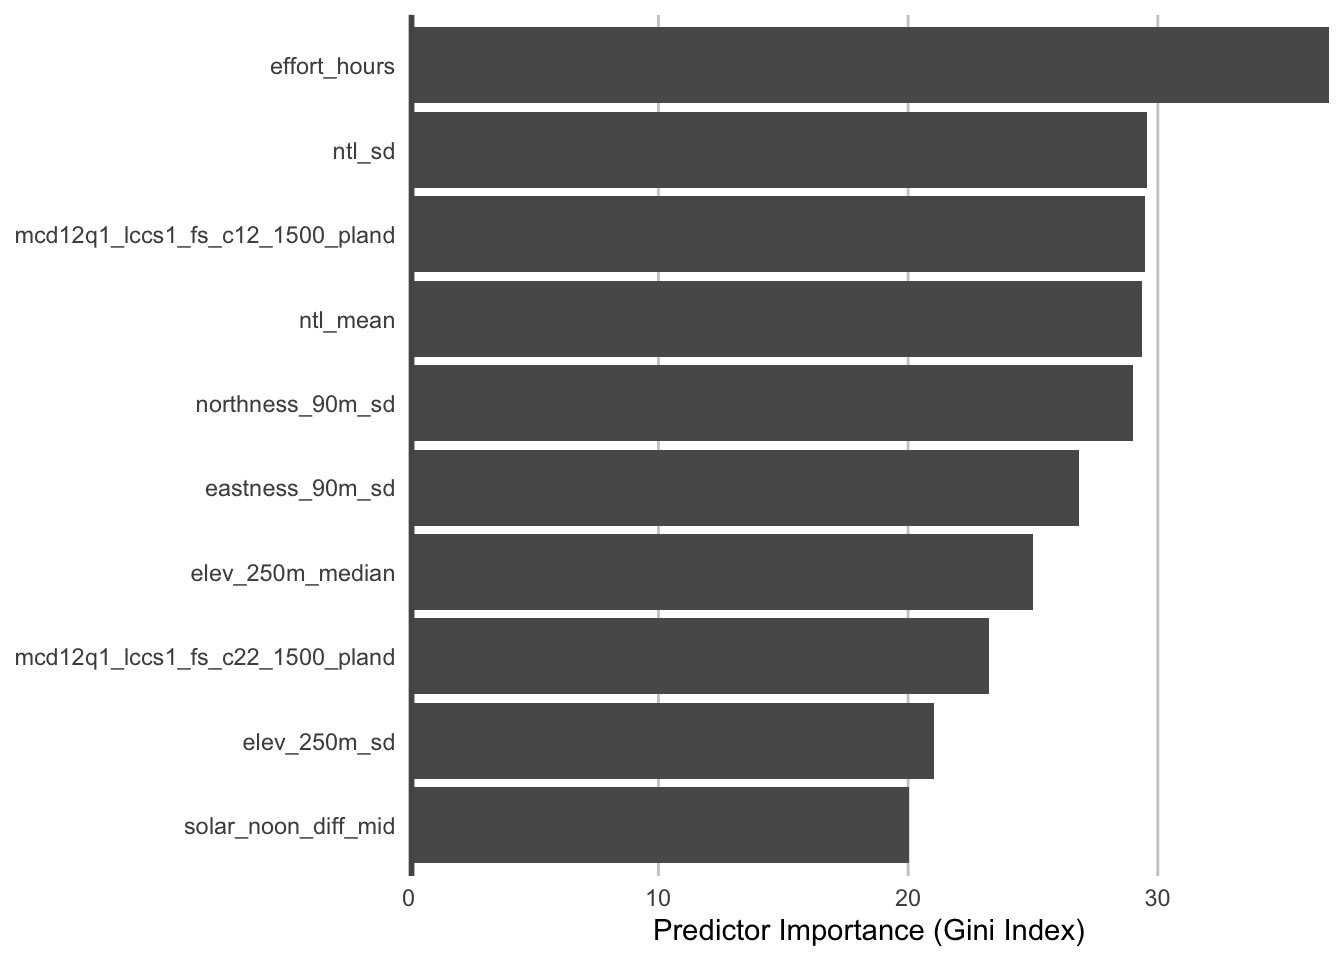
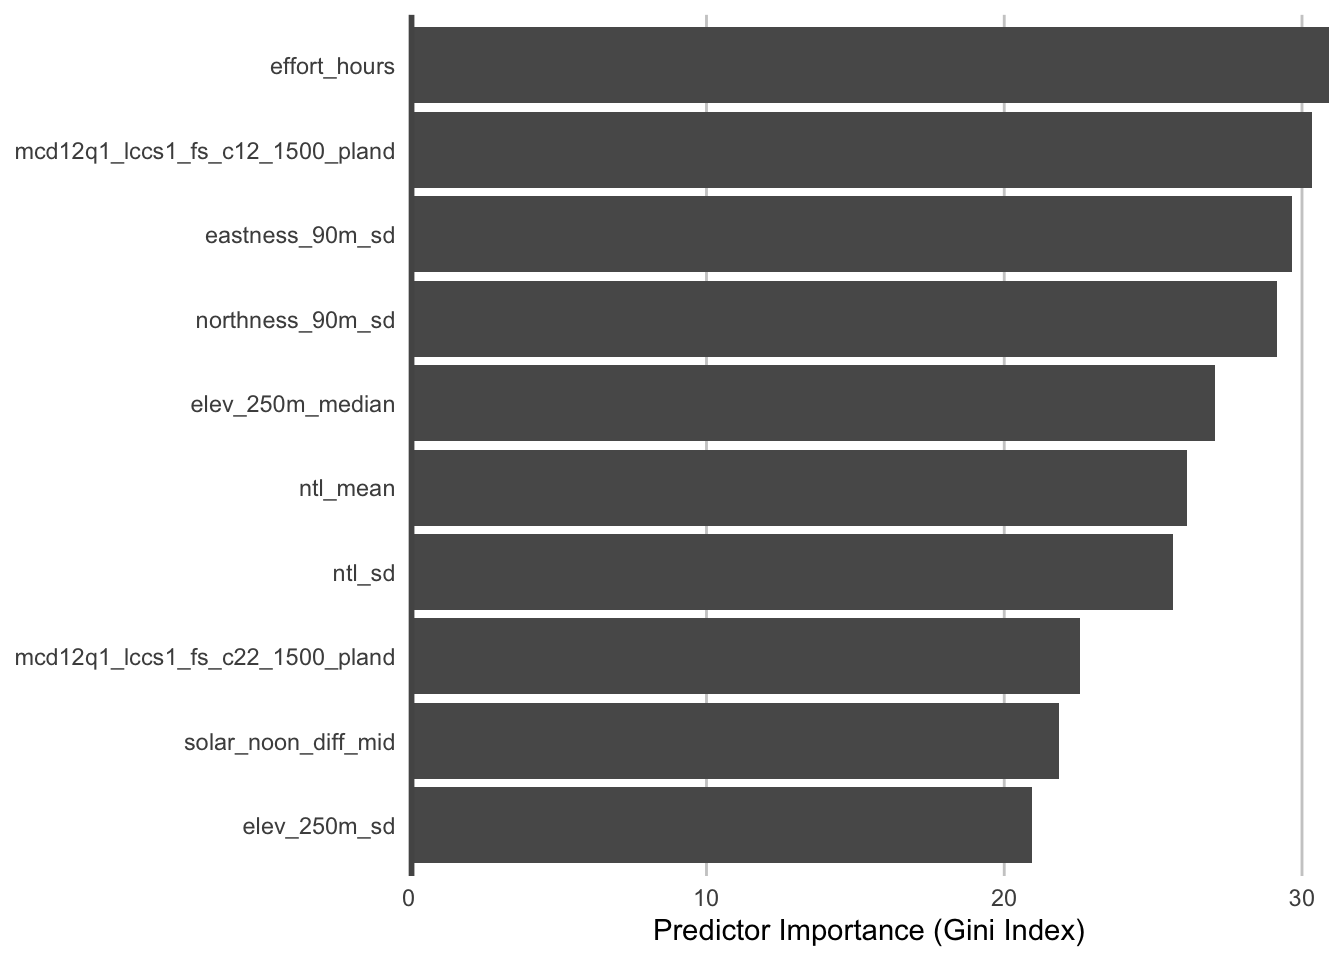
recompile

diff --git a/docs/abundance.html b/docs/abundance.html
@@ -276,7 +276,7 @@ code span.wa { color: #60a0b0; font-weight: bold; font-style: italic; } /* Warni
 <span id="cb1-31"><a href="#cb1-31" aria-hidden="true" tabindex="-1"></a>    <span class="at">obs_count =</span> <span class="fu">ifelse</span>(obs_detected <span class="sc">==</span> <span class="dv">1</span>, obs_count, <span class="dv">0</span>)</span>
 <span id="cb1-32"><a href="#cb1-32" aria-hidden="true" tabindex="-1"></a>  )</span></code><button title="Copy to Clipboard" class="code-copy-button"><i class="bi"></i></button></pre></div>
 </div>
-<p>Next let’s subset the data to only observations from January and February, summer months during which we expect detectability and habitat associations to be stationary. To reduce variation in detecatability, we’ll also subset the data to only those checklists less than 24 hours in duration and 10km in length, at speeds below 100km/h, and with 10 or fewer observers. Furthermore, we’ll only consider data from the past 15 years (2007-2021).</p>
+<p>Next let’s subset the data to only observations from January and February, summer months during which we expect detectability and habitat associations to be stationary. To reduce variation in detectability, we’ll also subset the data to only those checklists less than 6 hours in duration and 10km in length, at speeds below 100km/h, and with 10 or fewer observers. Furthermore, we’ll only consider data from the past 15 years (2007-2021).</p>
 <div class="cell" data-layout-align="center">
 <div class="sourceCode cell-code" id="cb2"><pre class="sourceCode r code-with-copy"><code class="sourceCode r"><span id="cb2-1"><a href="#cb2-1" aria-hidden="true" tabindex="-1"></a>checklists <span class="ot">&lt;-</span> checklists <span class="sc">%&gt;%</span> </span>
 <span id="cb2-2"><a href="#cb2-2" aria-hidden="true" tabindex="-1"></a>  <span class="fu">filter</span>(</span>
@@ -285,7 +285,7 @@ code span.wa { color: #60a0b0; font-weight: bold; font-style: italic; } /* Warni
 <span id="cb2-5"><a href="#cb2-5" aria-hidden="true" tabindex="-1"></a>    <span class="co"># jan-feb</span></span>
 <span id="cb2-6"><a href="#cb2-6" aria-hidden="true" tabindex="-1"></a>    day_of_year <span class="sc">&gt;=</span> <span class="dv">1</span>, day_of_year <span class="sc">&lt;=</span> <span class="dv">59</span>,</span>
 <span id="cb2-7"><a href="#cb2-7" aria-hidden="true" tabindex="-1"></a>    <span class="co"># effort filters</span></span>
-<span id="cb2-8"><a href="#cb2-8" aria-hidden="true" tabindex="-1"></a>    effort_hours <span class="sc">&lt;=</span> <span class="dv">24</span>,</span>
+<span id="cb2-8"><a href="#cb2-8" aria-hidden="true" tabindex="-1"></a>    effort_hours <span class="sc">&lt;=</span> <span class="dv">6</span>,</span>
 <span id="cb2-9"><a href="#cb2-9" aria-hidden="true" tabindex="-1"></a>    effort_distance_km <span class="sc">&lt;=</span> <span class="dv">10</span>,</span>
 <span id="cb2-10"><a href="#cb2-10" aria-hidden="true" tabindex="-1"></a>    effort_speed_kmph <span class="sc">&lt;=</span> <span class="dv">100</span>,</span>
 <span id="cb2-11"><a href="#cb2-11" aria-hidden="true" tabindex="-1"></a>    number_observers <span class="sc">&lt;=</span> <span class="dv">10</span>)</span></code><button title="Copy to Clipboard" class="code-copy-button"><i class="bi"></i></button></pre></div>
@@ -327,25 +327,25 @@ code span.wa { color: #60a0b0; font-weight: bold; font-style: italic; } /* Warni
 <div class="cell" data-layout-align="center">
 <div class="sourceCode cell-code" id="cb6"><pre class="sourceCode r code-with-copy"><code class="sourceCode r"><span id="cb6-1"><a href="#cb6-1" aria-hidden="true" tabindex="-1"></a><span class="co"># original data</span></span>
 <span id="cb6-2"><a href="#cb6-2" aria-hidden="true" tabindex="-1"></a><span class="fu">nrow</span>(checklists)</span>
-<span id="cb6-3"><a href="#cb6-3" aria-hidden="true" tabindex="-1"></a><span class="co">#&gt; [1] 6171</span></span>
+<span id="cb6-3"><a href="#cb6-3" aria-hidden="true" tabindex="-1"></a><span class="co">#&gt; [1] 6061</span></span>
 <span id="cb6-4"><a href="#cb6-4" aria-hidden="true" tabindex="-1"></a><span class="fu">count</span>(checklists, obs_detected) <span class="sc">%&gt;%</span> </span>
 <span id="cb6-5"><a href="#cb6-5" aria-hidden="true" tabindex="-1"></a>  <span class="fu">mutate</span>(<span class="at">percent =</span> n <span class="sc">/</span> <span class="fu">sum</span>(n))</span>
 <span id="cb6-6"><a href="#cb6-6" aria-hidden="true" tabindex="-1"></a><span class="co">#&gt; # A tibble: 2 × 3</span></span>
 <span id="cb6-7"><a href="#cb6-7" aria-hidden="true" tabindex="-1"></a><span class="co">#&gt;   obs_detected     n percent</span></span>
 <span id="cb6-8"><a href="#cb6-8" aria-hidden="true" tabindex="-1"></a><span class="co">#&gt;          &lt;int&gt; &lt;int&gt;   &lt;dbl&gt;</span></span>
-<span id="cb6-9"><a href="#cb6-9" aria-hidden="true" tabindex="-1"></a><span class="co">#&gt; 1            0  4460   0.723</span></span>
-<span id="cb6-10"><a href="#cb6-10" aria-hidden="true" tabindex="-1"></a><span class="co">#&gt; 2            1  1711   0.277</span></span>
+<span id="cb6-9"><a href="#cb6-9" aria-hidden="true" tabindex="-1"></a><span class="co">#&gt; 1            0  4408   0.727</span></span>
+<span id="cb6-10"><a href="#cb6-10" aria-hidden="true" tabindex="-1"></a><span class="co">#&gt; 2            1  1653   0.273</span></span>
 <span id="cb6-11"><a href="#cb6-11" aria-hidden="true" tabindex="-1"></a></span>
 <span id="cb6-12"><a href="#cb6-12" aria-hidden="true" tabindex="-1"></a><span class="co"># after sampling</span></span>
 <span id="cb6-13"><a href="#cb6-13" aria-hidden="true" tabindex="-1"></a><span class="fu">nrow</span>(checklists_sampled)</span>
-<span id="cb6-14"><a href="#cb6-14" aria-hidden="true" tabindex="-1"></a><span class="co">#&gt; [1] 3187</span></span>
+<span id="cb6-14"><a href="#cb6-14" aria-hidden="true" tabindex="-1"></a><span class="co">#&gt; [1] 3145</span></span>
 <span id="cb6-15"><a href="#cb6-15" aria-hidden="true" tabindex="-1"></a><span class="fu">count</span>(checklists_sampled, obs_detected) <span class="sc">%&gt;%</span> </span>
 <span id="cb6-16"><a href="#cb6-16" aria-hidden="true" tabindex="-1"></a>  <span class="fu">mutate</span>(<span class="at">percent =</span> n <span class="sc">/</span> <span class="fu">sum</span>(n))</span>
 <span id="cb6-17"><a href="#cb6-17" aria-hidden="true" tabindex="-1"></a><span class="co">#&gt; # A tibble: 2 × 3</span></span>
 <span id="cb6-18"><a href="#cb6-18" aria-hidden="true" tabindex="-1"></a><span class="co">#&gt;   obs_detected     n percent</span></span>
 <span id="cb6-19"><a href="#cb6-19" aria-hidden="true" tabindex="-1"></a><span class="co">#&gt;          &lt;int&gt; &lt;int&gt;   &lt;dbl&gt;</span></span>
-<span id="cb6-20"><a href="#cb6-20" aria-hidden="true" tabindex="-1"></a><span class="co">#&gt; 1            0  2139   0.671</span></span>
-<span id="cb6-21"><a href="#cb6-21" aria-hidden="true" tabindex="-1"></a><span class="co">#&gt; 2            1  1048   0.329</span></span></code><button title="Copy to Clipboard" class="code-copy-button"><i class="bi"></i></button></pre></div>
+<span id="cb6-20"><a href="#cb6-20" aria-hidden="true" tabindex="-1"></a><span class="co">#&gt; 1            0  2146   0.682</span></span>
+<span id="cb6-21"><a href="#cb6-21" aria-hidden="true" tabindex="-1"></a><span class="co">#&gt; 2            1   999   0.318</span></span></code><button title="Copy to Clipboard" class="code-copy-button"><i class="bi"></i></button></pre></div>
 </div>
 <p>So, the case controlled sampling <em>decreased</em> the overall number of checklists by a factor of 1.9, but <em>increased</em> the prevalence of detections. This increase in detections will help the random forests model distinguish where birds are being observed; however, this does affect the prevalence rate of the detections in the data. As a result, the estimated encounter rate based on these subsampled data will be larger than the true encounter rate. When examining the outputs from the models it will be important to recall that we altered the prevalence rate at this stage.</p>
 </section>
@@ -413,7 +413,7 @@ code span.wa { color: #60a0b0; font-weight: bold; font-style: italic; } /* Warni
 <span id="cb11-4"><a href="#cb11-4" aria-hidden="true" tabindex="-1"></a><span class="co"># identify best threshold</span></span>
 <span id="cb11-5"><a href="#cb11-5" aria-hidden="true" tabindex="-1"></a>mcc_f1_summary <span class="ot">&lt;-</span> <span class="fu">summary</span>(mcc_f1)</span>
 <span id="cb11-6"><a href="#cb11-6" aria-hidden="true" tabindex="-1"></a><span class="co">#&gt;  mccf1_metric best_threshold</span></span>
-<span id="cb11-7"><a href="#cb11-7" aria-hidden="true" tabindex="-1"></a><span class="co">#&gt;         0.518          0.473</span></span>
+<span id="cb11-7"><a href="#cb11-7" aria-hidden="true" tabindex="-1"></a><span class="co">#&gt;         0.514          0.498</span></span>
 <span id="cb11-8"><a href="#cb11-8" aria-hidden="true" tabindex="-1"></a>threshold <span class="ot">&lt;-</span> mcc_f1_summary<span class="sc">$</span>best_threshold[<span class="dv">1</span>]</span></code><button title="Copy to Clipboard" class="code-copy-button"><i class="bi"></i></button></pre></div>
 </div>
 </section>
@@ -528,6 +528,16 @@ code span.wa { color: #60a0b0; font-weight: bold; font-style: italic; } /* Warni
 <span id="cb16-37"><a href="#cb16-37" aria-hidden="true" tabindex="-1"></a>knitr<span class="sc">::</span><span class="fu">kable</span>(ppms, <span class="at">digits =</span> <span class="dv">3</span>)</span></code><button title="Copy to Clipboard" class="code-copy-button"><i class="bi"></i></button></pre></div>
 <div class="cell-output-display">
 <table class="table table-sm table-striped">
+<colgroup>
+<col style="width: 9%">
+<col style="width: 14%">
+<col style="width: 18%">
+<col style="width: 18%">
+<col style="width: 9%">
+<col style="width: 10%">
+<col style="width: 9%">
+<col style="width: 9%">
+</colgroup>
 <thead>
 <tr class="header">
 <th style="text-align: right;">mse</th>
@@ -542,14 +552,14 @@ code span.wa { color: #60a0b0; font-weight: bold; font-style: italic; } /* Warni
 </thead>
 <tbody>
 <tr class="odd">
-<td style="text-align: right;">0.133</td>
-<td style="text-align: right;">0.291</td>
-<td style="text-align: right;">0.816</td>
-<td style="text-align: right;">0.795</td>
-<td style="text-align: right;">0.571</td>
-<td style="text-align: right;">0.605</td>
-<td style="text-align: right;">0.58</td>
-<td style="text-align: right;">0.721</td>
+<td style="text-align: right;">0.135</td>
+<td style="text-align: right;">0.312</td>
+<td style="text-align: right;">0.732</td>
+<td style="text-align: right;">0.814</td>
+<td style="text-align: right;">0.519</td>
+<td style="text-align: right;">0.565</td>
+<td style="text-align: right;">0.523</td>
+<td style="text-align: right;">0.673</td>
 </tr>
 </tbody>
 </table>
@@ -604,10 +614,10 @@ code span.wa { color: #60a0b0; font-weight: bold; font-style: italic; } /* Warni
 </thead>
 <tbody>
 <tr class="odd">
-<td style="text-align: right;">0.436</td>
-<td style="text-align: right;">0.493</td>
-<td style="text-align: right;">0.455</td>
-<td style="text-align: right;">0.515</td>
+<td style="text-align: right;">0.472</td>
+<td style="text-align: right;">0.524</td>
+<td style="text-align: right;">0.476</td>
+<td style="text-align: right;">0.532</td>
 </tr>
 </tbody>
 </table>

diff --git a/docs/ebird.html b/docs/ebird.html
@@ -219,6 +219,9 @@ code span.wa { color: #60a0b0; font-weight: bold; font-style: italic; } /* Warni
 <p>eBird data are collected and organized around the concept of a checklist, representing observations from a single birding event, such as a 1 km walk through a park or 15 minutes observing bird feeders in your backyard. All eBird checklists contains a list of species observed and the location and time of the observations. For a subset of checklists, the observer will also provide counts of the number of individuals seen of each species, specify the amount of effort expended while collecting these data, and confirm that they are submitting a complete checklist of all the birds they were able to identify. The data provided by the checklists such as these is often referred to as <strong>semi-structured citizen science data</strong>.</p>
 <p>Let’s compare two eBird checklists: an <a href="https://ebird.org/checklist/S136805959">incidental observation with missing counts</a> and a <a href="https://ebird.org/checklist/S136805666">complete traveling count</a>. Both checklists can be useful, but only the second checklist provides the type of semi-structured data required for more rigorous applications.</p>
 <p>This lesson will focus on the eBird Reference Dataset (ERD), the collection of semi-structured eBird data used by the eBird Status and Trends team for modeling species distributions and relative abundance. A subset of this dataset for Chile was provided in the data package for this workshop. In the following sections we’ll provide an introduction to the ERD, describe the associated prediction grid used to make predictions across space, and highlight some of the challenges associated with using eBird data for analysis.</p>
+<section id="sec-ebird-erd" class="level2" data-number="1.1">
+<h2 data-number="1.1" class="anchored" data-anchor-id="sec-ebird-erd"><span class="header-section-number">1.1</span> eBird Reference Dataset (ERD)</h2>
+<p>The eBird Reference Dataset (ERD) is a subset of the full eBird database created annually for Status and Trends modeling. Only semi-structured (complete checklists with effort information) traveling and stationary counts from the last 15 years are included in the ERD and we assign a set of environmental variables assigned to checklist.</p>
 <div class="callout-tip callout callout-style-default callout-captioned">
 <div class="callout-header d-flex align-content-center">
 <div class="callout-icon-container">
@@ -229,12 +232,44 @@ Tip
 </div>
 </div>
 <div class="callout-body-container callout-body">
-<p>This workshop will only cover the eBird Reference Dataset (ERD), a subset of the eBird database generated annually by the eBird Status and Trends team. For access to the full eBird dataset updated monthly, you’ll need to work with the <a href="https://science.ebird.org/en/use-ebird-data/download-ebird-data-products">eBird Basic Dataset (EBD)</a>. This dataset is more challenging to work with and does not contain any habitat variables, but it is more current and complete. For details on working with the EBD consult the <a href="https://ebird.github.io/ebird-best-practices">eBird Best Practices book</a>.</p>
+<p>This workshop will only cover the eBird Reference Dataset (ERD). For access to the full eBird dataset updated monthly, you’ll need to work with the <a href="https://science.ebird.org/en/use-ebird-data/download-ebird-data-products">eBird Basic Dataset (EBD)</a>. For details on working with the EBD consult the <a href="https://ebird.github.io/ebird-best-practices">eBird Best Practices book</a>. Some of the advantages and disadvantages of the two datasts are:</p>
+<div class="cell" data-layout-align="center">
+<div class="cell-output-display">
+<table class="table table-sm table-striped">
+<colgroup>
+<col style="width: 39%">
+<col style="width: 60%">
+</colgroup>
+<thead>
+<tr class="header">
+<th style="text-align: left;">eBird Reference Dataset (ERD)</th>
+<th style="text-align: left;">eBird Basic Dataset (EBD)</th>
+</tr>
+</thead>
+<tbody>
+<tr class="odd">
+<td style="text-align: left;">contains only complete traveling and stationary counts from the last 15 years</td>
+<td style="text-align: left;">contains all eBird observations except for sensitive species</td>
+</tr>
+<tr class="even">
+<td style="text-align: left;">updated annually</td>
+<td style="text-align: left;">updated monthly</td>
+</tr>
+<tr class="odd">
+<td style="text-align: left;">environmental variables assigned to checklists</td>
+<td style="text-align: left;">complete set of variables from the eBird database including checklist comments, species comments, breeding codes, etc.</td>
+</tr>
+<tr class="even">
+<td style="text-align: left;">format is easier to work with in R</td>
+<td style="text-align: left;"></td>
+</tr>
+</tbody>
+</table>
 </div>
 </div>
-<section id="sec-ebird-erd" class="level2" data-number="1.1">
-<h2 data-number="1.1" class="anchored" data-anchor-id="sec-ebird-erd"><span class="header-section-number">1.1</span> eBird Reference Dataset (ERD)</h2>
-<p>The eBird Reference Dataset (ERD) is a subset of the full eBird database released annually, containing only semi-structured (complete checklists with effort information) traveling and stationary counts from the last 15 years. The ERD is distributed in two parts: observation data and checklist data. In the observation dataset, each row corresponds to the sighting of a single species on a checklist, including the count and any other species-level information (e.g.&nbsp;age, sex, species comments, etc.). In the checklist dataset, each row corresponds to a checklist, including the date, time, location, effort (e.g.&nbsp;distance traveled, time spent, etc.), and any additional checklist-level information (e.g.&nbsp;whether this is a complete checklist or not). These two datasets are provided in <a href="https://parquet.apache.org/">parquet format</a>, an open source standard for efficient storage and retrieval of tabular data, in the following files:</p>
+</div>
+</div>
+<p>The ERD is distributed in two parts: observation data and checklist data. In the observation dataset, each row corresponds to the sighting of a single species on a checklist, including the count and any other species-level information. In the checklist dataset, each row corresponds to a checklist, including the date, time, location, effort (e.g.&nbsp;distance traveled, time spent, etc.), and any additional checklist-level information. These two datasets are provided in <a href="https://parquet.apache.org/">parquet format</a>, an open source standard for efficient storage and retrieval of tabular data, in the following files:</p>
 <pre><code>data/ebird_observations_chile_2021.parquet
 data/ebird_checklists_chile_2021.parquet</code></pre>
 <p>Let’s start by reading these two datasets into R using the <code>arrow</code> package and exploring them. We’ll start with the checklist dataset.</p>
@@ -768,13 +803,13 @@ Solution
 <span id="cb17-6"><a href="#cb17-6" aria-hidden="true" tabindex="-1"></a><span class="fu">nrow</span>(chutap1_zf)</span>
 <span id="cb17-7"><a href="#cb17-7" aria-hidden="true" tabindex="-1"></a><span class="co">#&gt; [1] 186906</span></span>
 <span id="cb17-8"><a href="#cb17-8" aria-hidden="true" tabindex="-1"></a><span class="fu">nrow</span>(chutap1_sampled)</span>
-<span id="cb17-9"><a href="#cb17-9" aria-hidden="true" tabindex="-1"></a><span class="co">#&gt; [1] 77249</span></span>
+<span id="cb17-9"><a href="#cb17-9" aria-hidden="true" tabindex="-1"></a><span class="co">#&gt; [1] 77176</span></span>
 <span id="cb17-10"><a href="#cb17-10" aria-hidden="true" tabindex="-1"></a></span>
 <span id="cb17-11"><a href="#cb17-11" aria-hidden="true" tabindex="-1"></a><span class="co"># how has prevalence changed</span></span>
 <span id="cb17-12"><a href="#cb17-12" aria-hidden="true" tabindex="-1"></a><span class="fu">mean</span>(chutap1_zf<span class="sc">$</span>obs_detected)</span>
 <span id="cb17-13"><a href="#cb17-13" aria-hidden="true" tabindex="-1"></a><span class="co">#&gt; [1] 0.0518</span></span>
 <span id="cb17-14"><a href="#cb17-14" aria-hidden="true" tabindex="-1"></a><span class="fu">mean</span>(chutap1_sampled<span class="sc">$</span>obs_detected)</span>
-<span id="cb17-15"><a href="#cb17-15" aria-hidden="true" tabindex="-1"></a><span class="co">#&gt; [1] 0.0734</span></span></code><button title="Copy to Clipboard" class="code-copy-button"><i class="bi"></i></button></pre></div>
+<span id="cb17-15"><a href="#cb17-15" aria-hidden="true" tabindex="-1"></a><span class="co">#&gt; [1] 0.0726</span></span></code><button title="Copy to Clipboard" class="code-copy-button"><i class="bi"></i></button></pre></div>
 </div>
 <p>So, after sampling, we’re left with 41% of the observations we started with, but the spatial and temporal bias has been significantly reduced.</p>
 <p>We now have the data and tools necessary to model relative abundance using eBird data, which will be the focus of <a href="abundance.html">Lesson&nbsp;<span>2</span></a>.</p>
